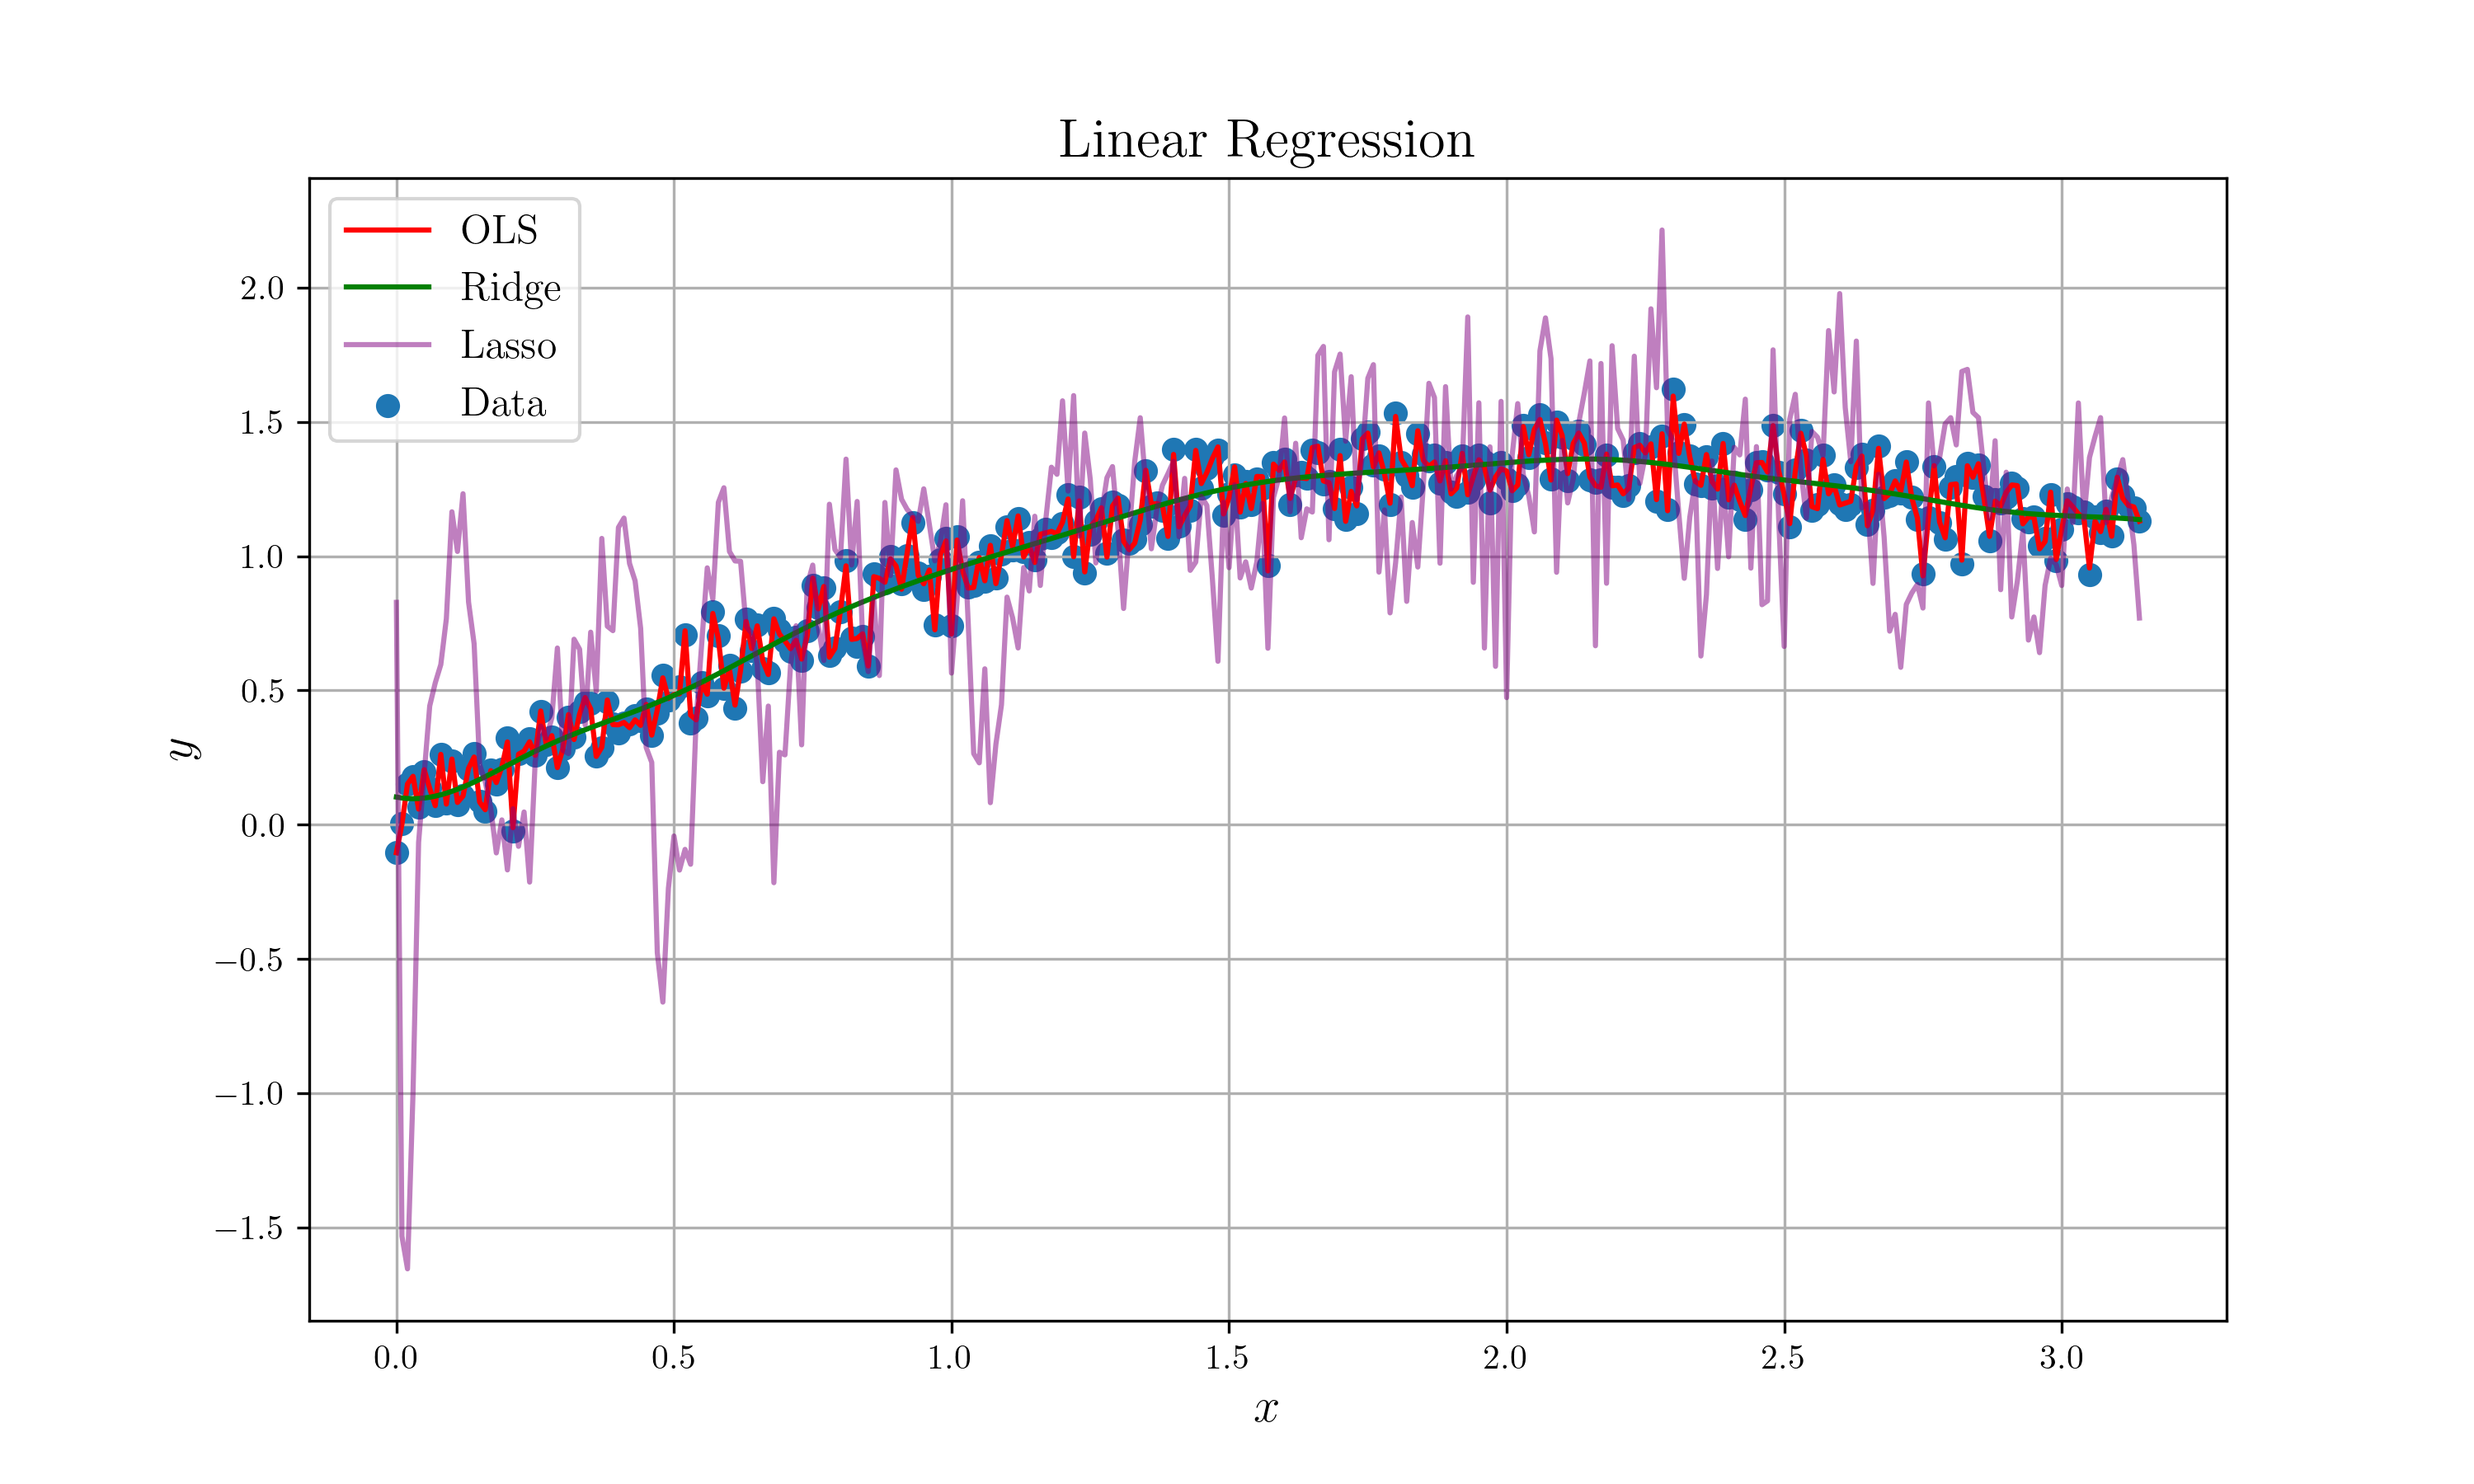
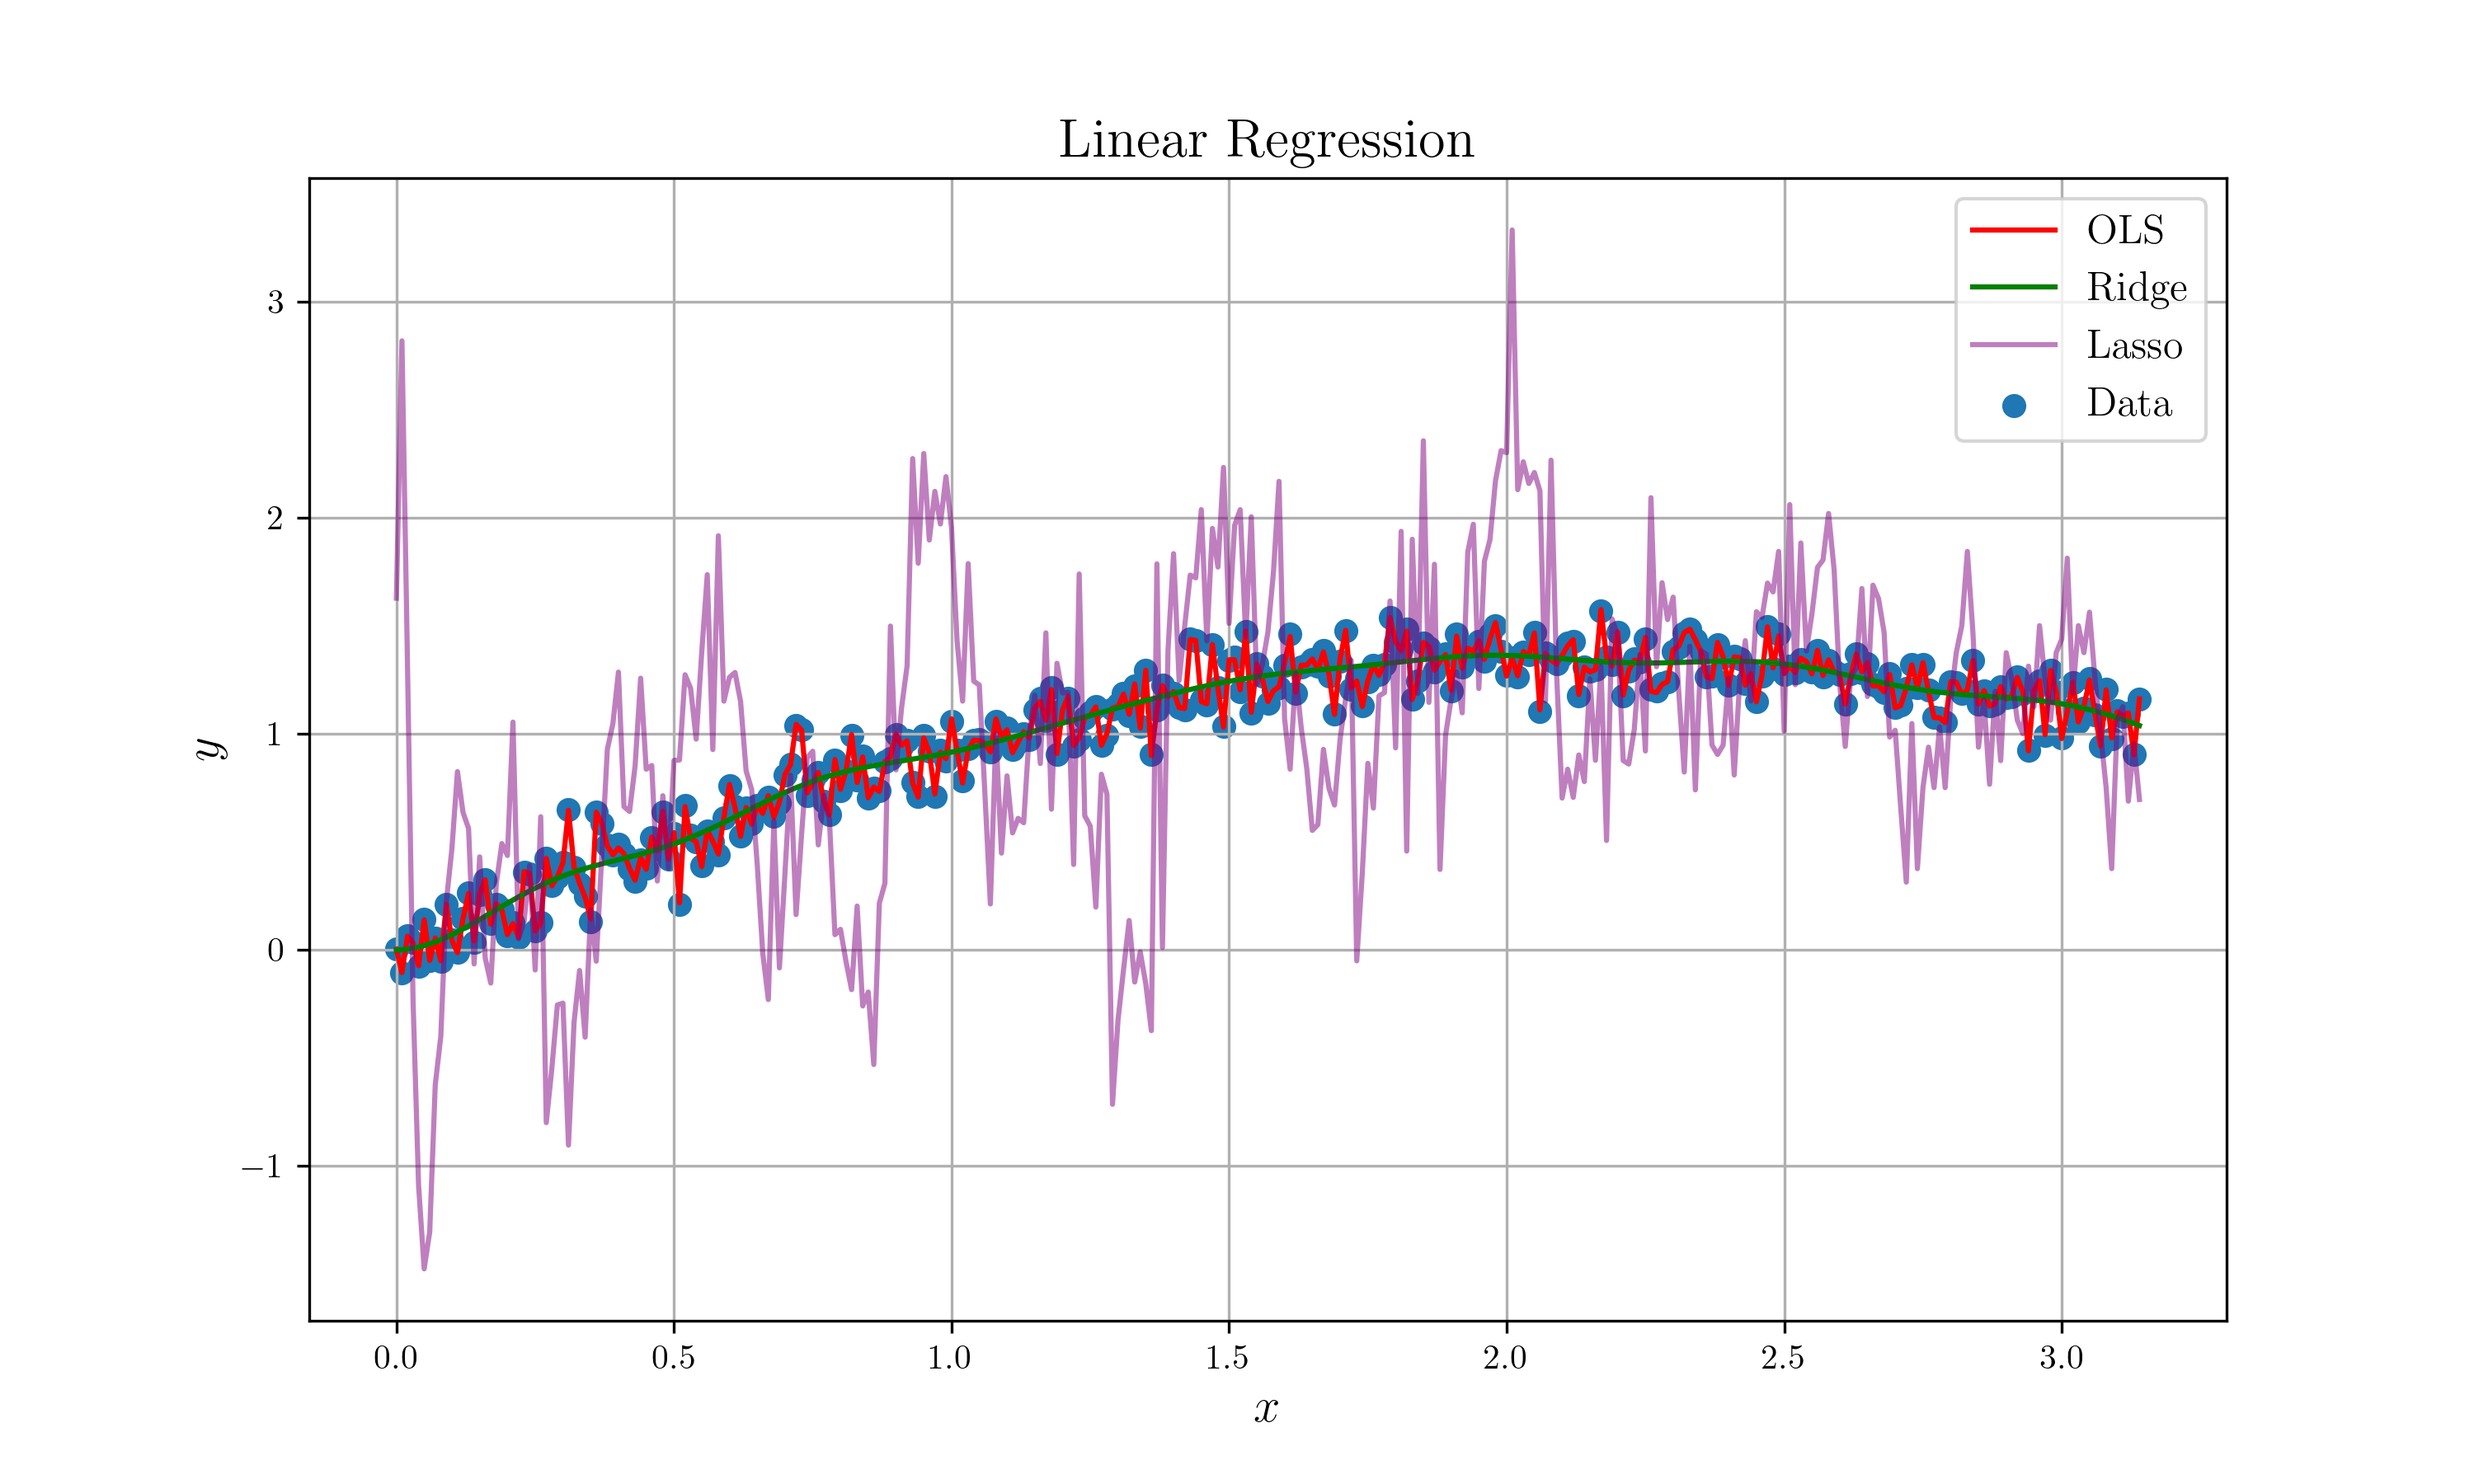
Something wrong

Changed region(s): [[0.093, 0.1244, 0.899, 0.8711], [0.806, 0.1244, 0.899, 0.1556], [0.062, 0.4978, 0.093, 0.5289]]

diff --git a/chap3/rust/src/main.rs b/chap3/rust/src/main.rs
@@ -1,6 +1,7 @@
 #[macro_use]
 extern crate peroxide;
 use peroxide::fuga::*;
+use itertools::izip;
 
 fn main() {
     // Generate random data
@@ -13,7 +14,7 @@ fn main() {
     for j in 0 .. X.col {
         X.subs_col(j, &x.fmap(|t| phi(j as f64/ 100f64, 0.1f64, t)));
     }
-    
+
     //let X = hstack!(x.clone(), x.fmap(|t| t.powi(2)), x.fmap(|t| t.powi(3)), x.fmap(|t| t.powi(4)));
 
     // OLS Estimator
@@ -26,62 +27,26 @@ fn main() {
     ridge.estimate();
     ridge.stat_test();
 
-    ols.summary();
+    //ols.summary();
     println!("");
 
-    ridge.summary();
+    //ridge.summary();
 
     // Lasso
-    let mut X_s = X;
-    X_s.col_mut_map(|c| c.div_s(c.norm(Norm::L2)));
-    let y_c = y.centered();
-
-    let beta_init = find_beta_hat(&X_s, &y);
-
-    let beta = lasso(&beta_init, &X_s, &y, 1e-10, 500);
-    beta.print();
-    let y_new = (X_s * beta);
+    let mut lasso = LinReg::new(&X, &y, Method::Lasso(0.1));
+    lasso.beta().print();
+    lasso.estimate();
 
     let mut df = DataFrame::new(vec![]);
     df.push("x", Series::new(x));
     df.push("y", Series::new(y));
     df.push("y_ols", Series::new(ols.y_hat().clone()));
     df.push("y_ridge", Series::new(ridge.y_hat().add_s(y_bar)));
-    df.push("y_lasso", Series::new(y_new));
+    df.push("y_lasso", Series::new(lasso.y_hat().clone()));
 
     df.print();
 
     df.write_nc("data/lasso.nc").expect("Can't write nc file");
-
-
-    //// OLS Estimator
-    //let mut ols = LinReg::new(&x.clone().into(), &y, Method::OLS);
-    //ols.estimate();
-    //ols.stat_test();
-
-    //let mut ridge = LinReg::new(&x.clone().into(), &y, Method::Ridge(1f64));
-    //ridge.estimate();
-    //ridge.stat_test();
-
-    //ols.summary();
-    //println!("");
-
-    //ridge.summary();
-
-    //let beta_hat = ols.beta();
-    //let y_hat= ols.y_hat();
-    //let sigma_hat = ols.sigma_hat();
-    //let t_score = ols.t_score();
-    //let p_value = ols.p_value();
-
-    //// Save data to plot
-    //let mut df = DataFrame::new(vec![]);
-    //df.push("x", Series::new(x));
-    //df.push("y", Series::new(y));
-    //df.push("y_hat", Series::new(y_hat.clone()));
-
-    //df.print();
-    //df.write_nc("data/data.nc").expect("Can't write nc file");
 }
 
 // =============================================================================
@@ -138,7 +103,8 @@ pub fn phi(j: f64, s: f64, x: f64) -> f64 {
 // =============================================================================
 // Coordinate Descent
 // =============================================================================
-fn lasso(beta_init: &Vec<f64>, X: &Matrix, y: &Vec<f64>, lam: f64, num_iters: usize) -> Vec<f64> {
+#[allow(non_snake_case)]
+fn coordinate_descent_lasso(beta_init: &Vec<f64>, X: &Matrix, y: &Vec<f64>, lam: f64, num_iters: usize) -> Vec<f64> {
     let N = X.row;
     let p = X.col;
     let mut beta = beta_init.clone();
@@ -147,108 +113,27 @@ fn lasso(beta_init: &Vec<f64>, X: &Matrix, y: &Vec<f64>, lam: f64, num_iters: us
         for j in 0 .. p {
             let y_hat = X * &beta;
             let x_j = X.col(j);
-            let rho = x_j.dot(&(y.sub_v(&y_hat).add_v(&x_j.mul_s(beta[j]))));
+            let rho = x_j.dot(
+                &izip!(y, &y_hat, &x_j)
+                    .map(|(a, b, c)| a - b + c * beta[j])
+                    .collect::<Vec<f64>>()
+            );
+            //let rho = x_j.dot(&(y.sub_v(&y_hat).add_v(&x_j.mul_s(beta[j]))));
             beta[j] = soft_threshold(rho, lam);
         }
     }
     beta
 }
 
-
-fn soft_threshold(beta: f64, lam: f64) -> f64 {
-    if beta < -lam {
-        beta + lam
-    } else if beta > lam {
-        beta - lam
+fn soft_threshold(rho: f64, lam: f64) -> f64 {
+    if rho < -lam {
+        rho + lam
+    } else if rho > lam {
+        rho - lam
     } else {
         0f64
     }
 }
-
-// =============================================================================
-// LAR
-// =============================================================================
-///// # Condition
-///// * X should be standardized
-///// * y should be centered
-//#[allow(non_snake_case)]
-//fn lar(y: &Vec<f64>, X: &Matrix, alpha_origin: f64) -> Vec<f64> {
-//    // Initial Step (k=1)
-//    let mut alpha = alpha_origin;
-//    let mut y_hat = vec![0f64; y.len()];
-//    let mut r = y.clone();
-//    let mut beta = vec![0f64; X.col];
-//    let mut A = vec![];
-//    let mut j = find_max_corr(X, &r, &A).unwrap();
-//    j.print();
-//    A.push(j);
-//    let mut j_prev = A.iter().last().unwrap().clone();
-//    let mut X_A: Matrix = X.col(j).into();
-//    let mut G_A = X_A.pseudo_inv();
-//    let mut delta = &G_A * &r;
-//    let mut beta_temp = delta.mul_s(alpha);
-//    A.iter().zip(beta_temp.iter()).for_each(|(i, b)| beta[*i] = *b);
-//    A.print();
-//    beta_temp.print();
-//    
-//    'outer: for k in 0 .. X.col {
-//        r = r.sub_v(&X_A.apply(&beta));
-//        match find_max_corr(X, &r, &A) {
-//            Some(i) => j = i,
-//            None => break,
-//        }
-//        //let mut stack = 0usize;
-//        while j == j_prev {
-//            let delta_prev = delta.clone();
-//            delta = &G_A * &r;
-//            if delta[0] * delta_prev[0] < 0f64 {
-//                alpha *= 0.01;
-//                delta = delta_prev;
-//            }
-//            beta_temp = beta_temp.add_v(&delta.mul_s(alpha));
-//            r = r.sub_v(&X_A.apply(&beta_temp));
-//            match find_max_corr(X, &r, &A) {
-//                Some(i) => j = i,
-//                None => break 'outer,
-//            }
-//            delta.print();
-//            //stack += 1;
-//            //stack.print();
-//        }
-//        alpha = alpha_origin;
-//        j_prev = j;
-//        A.print();
-//        A.iter().zip(beta_temp.iter()).for_each(|(i, b)| beta[*i] = *b);
-//        if k == X.col-1 {
-//            break
-//        }
-//        j.print();
-//        A.push(j);
-//        X_A.add_col_mut(&X.col(j));
-//        G_A = X_A.pseudo_inv();
-//        delta = G_A.apply(&r);
-//        beta_temp.push(0f64);
-//        beta_temp = beta_temp.add_v(&delta.mul_s(alpha));
-//    }
-//    A.iter().zip(beta_temp.iter()).for_each(|(i, b)| beta[*i] = *b);
-//    beta
-//}
-//
-//fn find_max_corr(X: &Matrix, target: &Vec<f64>, ignore: &Vec<usize>) -> Option<usize> {
-//    let ref_vec = X.col_reduce(|c| cor(&c, target));
-//    let mut removed = vec![-2f64; ref_vec.len()];
-//    let mut stack = 0usize;
-//    for (i, v) in ref_vec.into_iter().enumerate() {
-//        if !ignore.contains(&i) {
-//            removed[i] = v;
-//            stack += 1;
-//        }
-//    }
-//    match stack {
-//        0 => None,
-//        _ => Some(removed.arg_max())
-//    }
-//}
 
 // =============================================================================
 // OOP implementation
@@ -278,21 +163,26 @@ pub enum Method {
 
 impl LinReg {
     pub fn new(x: &Matrix, y: &Vec<f64>, method: Method) -> Self {
-        let (x_mat, y_vec) = match method {
+        let (x_mat, y_vec, beta) = match method {
             Method::OLS => {
-                (add_bias(x.clone()), y.clone())
+                (add_bias(x.clone()), y.clone(), None)
             }
-            _ => {
-                (x.standardize(), y.centered())
+            Method::Ridge(_) => {
+                (x.standardize(), y.centered(), None)
+            }
+            Method::Lasso(_) => {
+                println!("Hi");
+                (x.normalized(), y.centered(), Some(vec![1f64; x.col]))
             }
         };
+        println!("Normalized Success");
         
         Self {
             input: x_mat,
             output: y_vec,
             N: y.len(),
             p: x.col,
-            beta: None,
+            beta,
             y_hat: None,
             sigma_hat: None,
             t_score: None,
@@ -380,15 +270,18 @@ impl LinReg {
 
                 let beta = cat(beta_0, &beta_ridge);
 
-                println!("beta: {:?}", beta);
                 let y_hat = &(add_bias(self.input().clone())) * &beta;
 
                 self.beta = Some(beta);
                 self.y_hat = Some(y_hat);
                 self._cached_svd = Some(x_svd);
             }
-            Method::Lasso(_lam) => {
-                todo!()
+            Method::Lasso(lam) => {
+                let beta_hat = coordinate_descent_lasso(self.beta(), self.input(), self.output(), lam, 200);
+                let y_hat = (self.input() * &beta_hat).add_s(self.output().mean());
+
+                self.beta = Some(beta_hat);
+                self.y_hat = Some(y_hat);
             }
         }
     }
@@ -460,6 +353,7 @@ impl LinReg {
 pub trait Scaled {
     fn standardize(&self) -> Self;
     fn centered(&self) -> Self;
+    fn normalized(&self) -> Self;
 }
 
 impl Scaled for Vec<f64> {
@@ -472,6 +366,11 @@ impl Scaled for Vec<f64> {
     fn centered(&self) -> Self {
         let y_bar = self.mean();
         self.sub_s(y_bar)
+    }
+
+    fn normalized(&self) -> Self {
+        let norm = self.norm(Norm::L2);
+        self.div_s(norm)
     }
 }
 
@@ -497,5 +396,9 @@ impl Scaled for Matrix {
             m.subs_col(i, &v);
         }
         m
+    }
+
+    fn normalized(&self) -> Self {
+        self.col_map(|c| c.div_s(c.norm(Norm::L2)))
     }
 }
